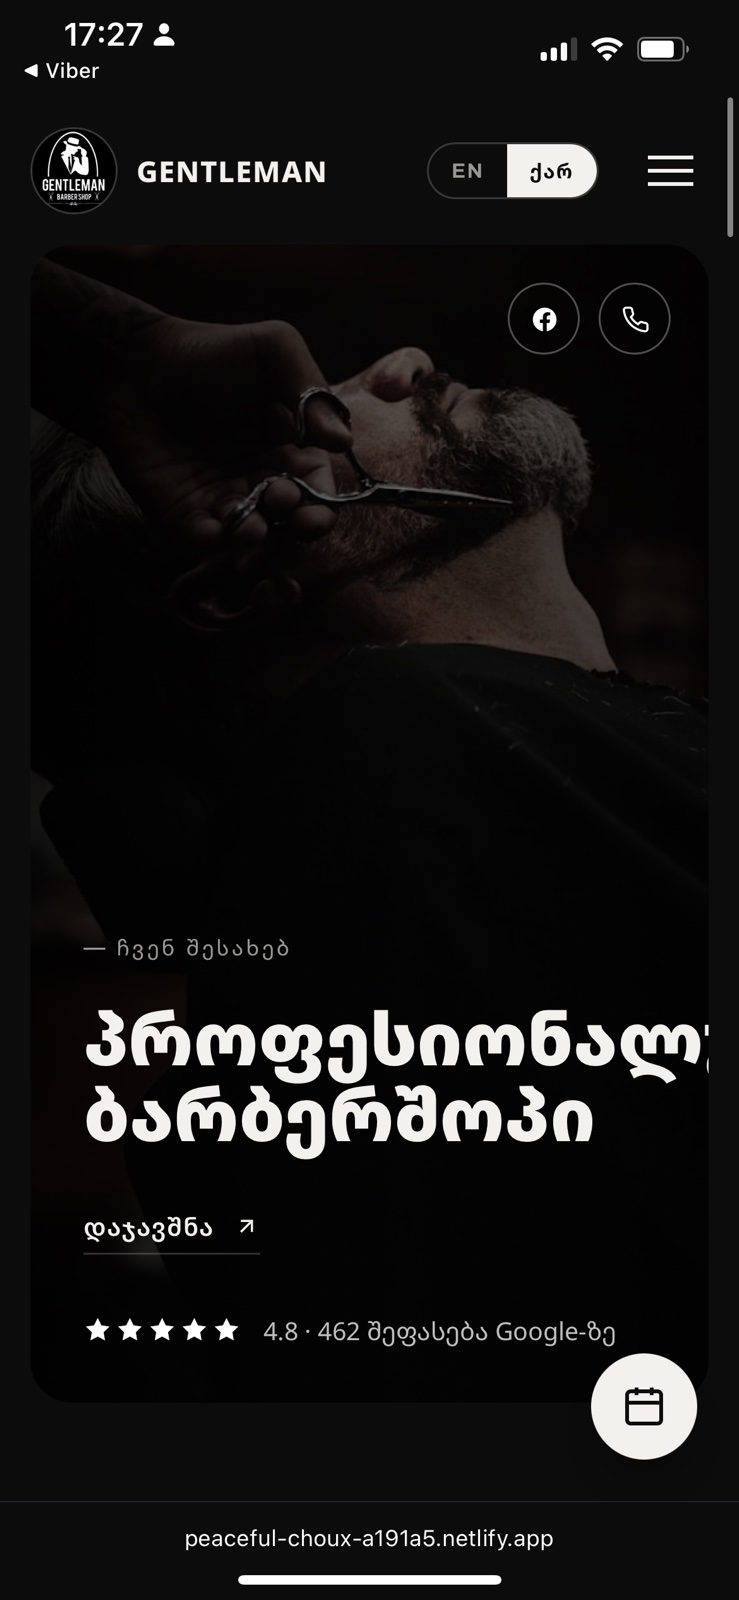
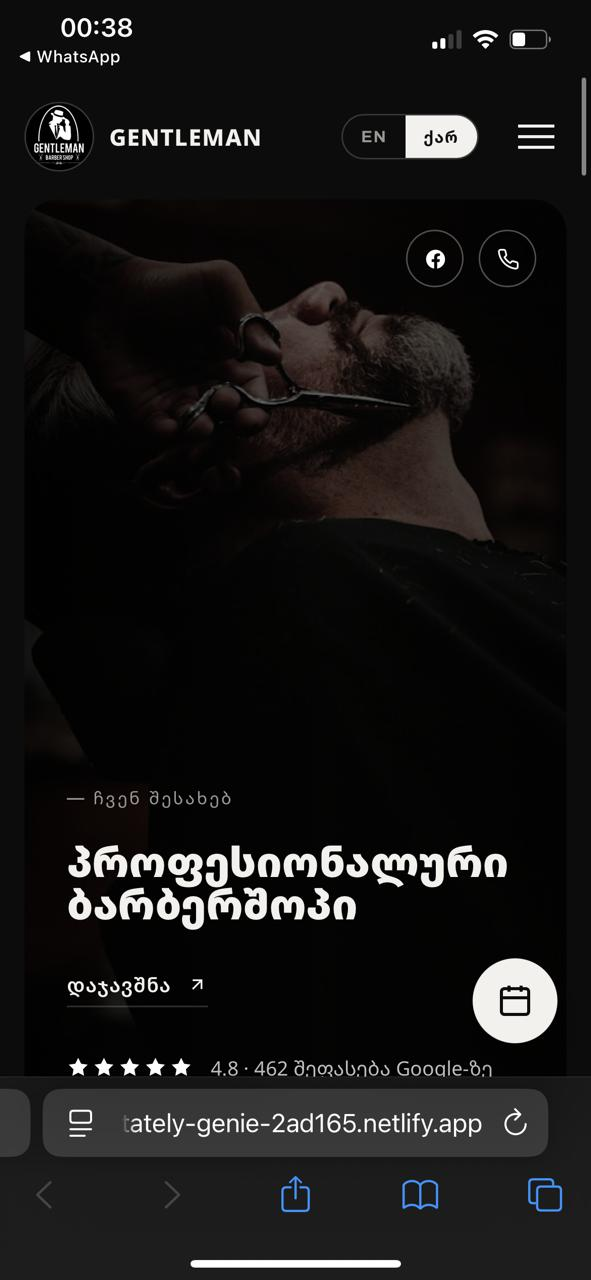
Mobile hero: compact card with centered content; Georgian as default language

diff --git a/index.html b/index.html
@@ -343,6 +343,19 @@ body.lang-ka .foot-col a,body.lang-ka .foot-col p,body.lang-ka .foot-brand p{fon
 @media(max-width:548px){
   .hero-inner .display{font-size:clamp(1.55rem,7vw,2.4rem)}
 }
+/* ---- mobile hero: compact card, content centered over the photo ---- */
+@media(max-width:768px){
+  .hero{padding:74px 14px 0}
+  .hero-card{min-height:72vh;align-items:center;text-align:center}
+  .hero-card img.bg{object-position:50% 26%}              /* keep the face above the headline */
+  .hero-card::after{background:linear-gradient(to bottom,
+      rgba(0,0,0,.40),rgba(0,0,0,.34) 36%,rgba(0,0,0,.82))} /* vertical fade for legibility */
+  .hero-inner{padding:24px 20px}
+  .hero-inner .eyebrow{margin-bottom:12px}
+  .hero-inner h1{margin-bottom:20px}
+  .hero-inner .book-link{justify-content:center}
+  .hero-rating{justify-content:center;margin-top:22px}
+}
 @media(prefers-reduced-motion:reduce){
   *{animation:none!important;scroll-behavior:auto!important}
   .reveal{opacity:1;transform:none;transition:none}
@@ -950,7 +963,7 @@ navlinks.querySelectorAll('a').forEach(a => a.addEventListener('click', () => {
 })();
 
 /* ===== Language switch ===== */
-let currentLang = localStorage.getItem('lang') || 'en';
+let currentLang = localStorage.getItem('lang') || 'ka';   // Georgian by default; visitor can switch to EN
 function applyLang(lang){
   currentLang = lang;
   document.documentElement.lang = lang;